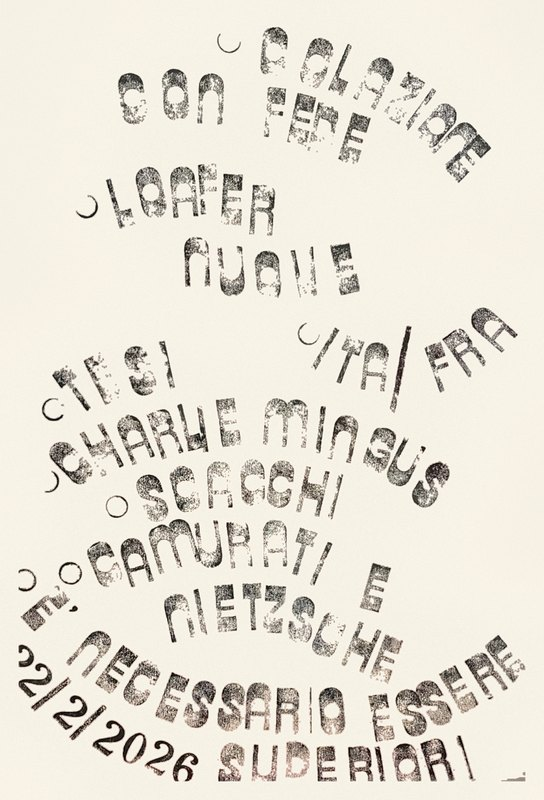
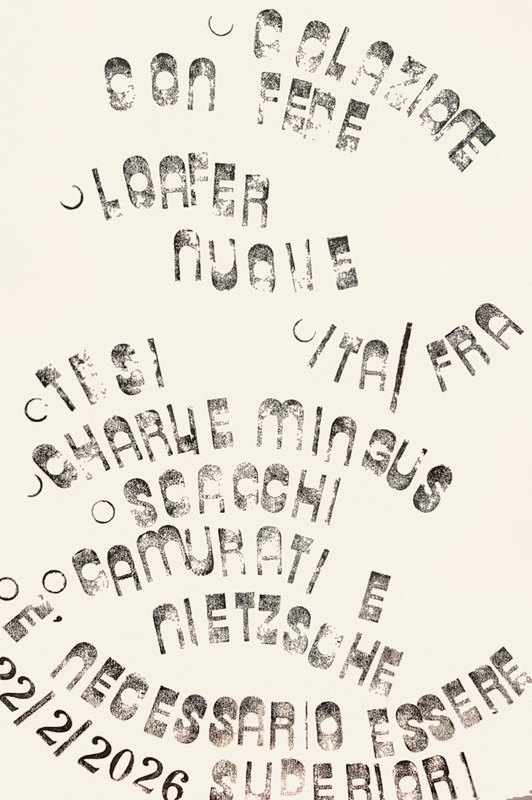
Aggiungi 25-29/6 + fix 22/2 senza padding

diff --git a/index.html b/index.html
@@ -9,7 +9,7 @@
 <meta property="og:description" content="Opere su carta. Ogni opera porta la data del giorno in cui è stata fatta." />
 <meta property="og:type" content="website" />
 <meta property="og:url" content="https://sebastianofurlotti.com/" />
-<meta property="og:image" content="foto_definitive/Timbro_2026-06-24.jpg" />
+<meta property="og:image" content="foto_definitive/Timbro_2026-06-29.jpg" />
 <meta name="twitter:card" content="summary_large_image" />
 <link rel="canonical" href="https://sebastianofurlotti.com/" />
 
@@ -661,6 +661,56 @@ section#timbri{ padding-top: clamp(160px, 18vw, 240px); }
      ═══════════════════════════════════════════════════════════════════ -->
 <section class="page" id="timbri">
   <div class="gallery" id="gallery">
+    <figure class="work">
+      <div class="work-frame" style="--ratio: 71.56%;">
+        <img src="foto_definitive/Timbro_2026-06-29.jpg"
+             srcset="foto_definitive/thumbs/Timbro_2026-06-29.jpg 800w, foto_definitive/Timbro_2026-06-29.jpg 1800w"
+             sizes="(max-width: 720px) 92vw, 720px"
+             width="1800" height="1288"
+             alt="29/6/26" loading="lazy" decoding="async" />
+      </div>
+      <figcaption class="work-caption"><span class="work-date">29/6/26</span></figcaption>
+    </figure>
+    <figure class="work">
+      <div class="work-frame" style="--ratio: 66.61%;">
+        <img src="foto_definitive/Timbro_2026-06-28.jpg"
+             srcset="foto_definitive/thumbs/Timbro_2026-06-28.jpg 800w, foto_definitive/Timbro_2026-06-28.jpg 1800w"
+             sizes="(max-width: 720px) 92vw, 720px"
+             width="1800" height="1199"
+             alt="28/6/26" loading="lazy" decoding="async" />
+      </div>
+      <figcaption class="work-caption"><span class="work-date">28/6/26</span></figcaption>
+    </figure>
+    <figure class="work">
+      <div class="work-frame" style="--ratio: 140.85%;">
+        <img src="foto_definitive/Timbro_2026-06-27.jpg"
+             srcset="foto_definitive/thumbs/Timbro_2026-06-27.jpg 800w, foto_definitive/Timbro_2026-06-27.jpg 1800w"
+             sizes="(max-width: 720px) 92vw, 720px"
+             width="1278" height="1800"
+             alt="27/6/26" loading="lazy" decoding="async" />
+      </div>
+      <figcaption class="work-caption"><span class="work-date">27/6/26</span></figcaption>
+    </figure>
+    <figure class="work">
+      <div class="work-frame" style="--ratio: 72.22%;">
+        <img src="foto_definitive/Timbro_2026-06-26.jpg"
+             srcset="foto_definitive/thumbs/Timbro_2026-06-26.jpg 800w, foto_definitive/Timbro_2026-06-26.jpg 1800w"
+             sizes="(max-width: 720px) 92vw, 720px"
+             width="1800" height="1300"
+             alt="26/6/26" loading="lazy" decoding="async" />
+      </div>
+      <figcaption class="work-caption"><span class="work-date">26/6/26</span></figcaption>
+    </figure>
+    <figure class="work">
+      <div class="work-frame" style="--ratio: 69.61%;">
+        <img src="foto_definitive/Timbro_2026-06-25.jpg"
+             srcset="foto_definitive/thumbs/Timbro_2026-06-25.jpg 800w, foto_definitive/Timbro_2026-06-25.jpg 1800w"
+             sizes="(max-width: 720px) 92vw, 720px"
+             width="1800" height="1253"
+             alt="25/6/26" loading="lazy" decoding="async" />
+      </div>
+      <figcaption class="work-caption"><span class="work-date">25/6/26</span></figcaption>
+    </figure>
     <figure class="work">
       <div class="work-frame" style="--ratio: 146.46%;">
         <img src="foto_definitive/Timbro_2026-06-24.jpg"
@@ -1382,11 +1432,11 @@ section#timbri{ padding-top: clamp(160px, 18vw, 240px); }
       <figcaption class="work-caption"><span class="work-date">28/2/26</span></figcaption>
     </figure>
     <figure class="work">
-      <div class="work-frame" style="--ratio: 146.94%;">
+      <div class="work-frame" style="--ratio: 150.36%;">
         <img src="foto_definitive/Timbro_2026-02-22.jpg"
              srcset="foto_definitive/thumbs/Timbro_2026-02-22.jpg 800w, foto_definitive/Timbro_2026-02-22.jpg 1800w"
              sizes="(max-width: 720px) 92vw, 720px"
-             width="735" height="1080"
+             width="685" height="1030"
              alt="22/2/26" loading="lazy" decoding="async" />
       </div>
       <figcaption class="work-caption"><span class="work-date">22/2/26</span></figcaption>
